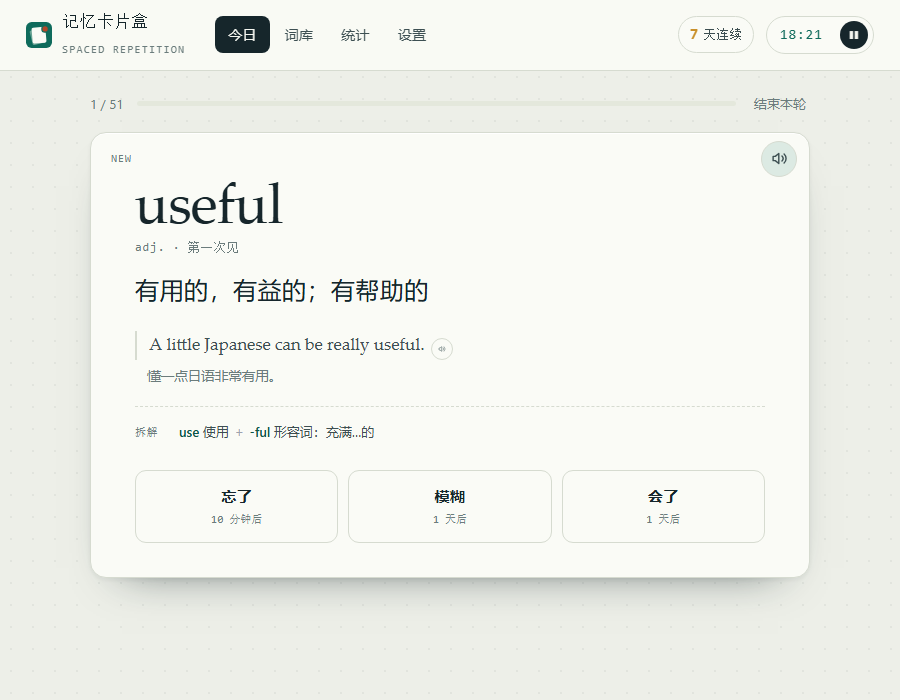
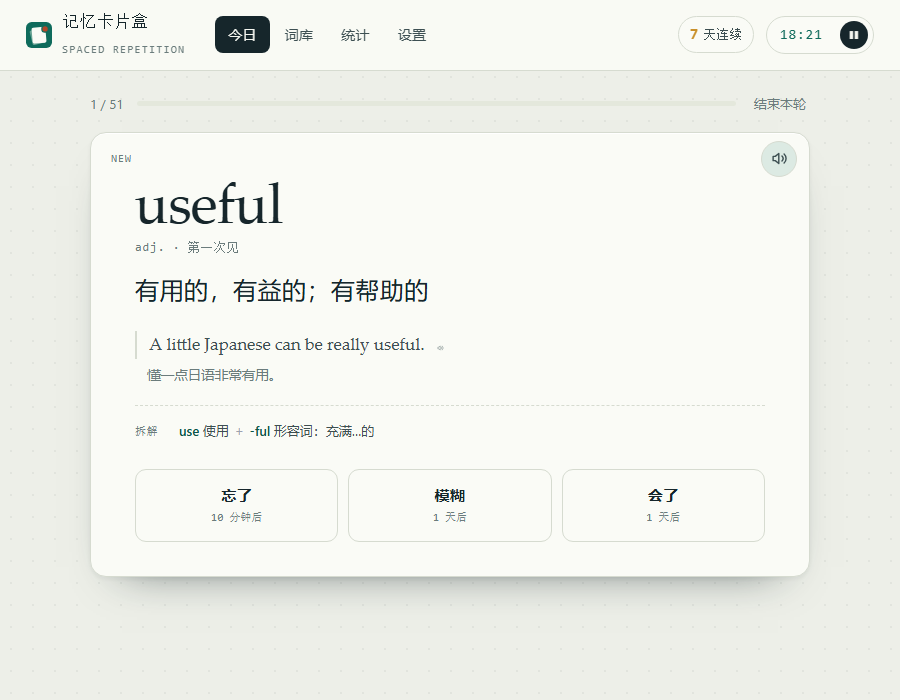
例句朗读按钮去掉焦点粗描边，改为悬停才出现底色

diff --git a/web/style.css b/web/style.css
@@ -980,28 +980,48 @@ textarea {
   display: inline-flex;
   align-items: center;
   justify-content: center;
-  width: 22px;
-  height: 22px;
-  margin-left: 7px;
-  vertical-align: -5px;
-  border: 1px solid var(--line);
+  width: 21px;
+  height: 21px;
+  margin-left: 6px;
+  vertical-align: -4px;
+  border: 1px solid transparent;
   border-radius: 50%;
   background: transparent;
   color: var(--muted);
+  opacity: 0.85;
   cursor: pointer;
-  transition: color 0.14s ease, border-color 0.14s ease, background 0.14s ease;
+  outline: none;
+  transition: color 0.14s ease, border-color 0.14s ease, background 0.14s ease,
+    opacity 0.14s ease;
 }
 .ex-say svg {
   width: 12px;
   height: 12px;
 }
 .ex-say:hover {
+  opacity: 1;
   color: var(--accent-deep);
-  border-color: var(--accent);
+  border-color: var(--line);
   background: var(--soft);
 }
 .ex-say:active {
   transform: scale(0.92);
+}
+.ex-say:focus-visible {
+  opacity: 1;
+  outline: 2px solid var(--accent);
+  outline-offset: 2px;
+}
+
+/* 主发音按钮同理：鼠标点完不留粗描边 */
+.fc-say:focus,
+.icon-btn:focus {
+  outline: none;
+}
+.fc-say:focus-visible,
+.icon-btn:focus-visible {
+  outline: 2px solid var(--accent);
+  outline-offset: 2px;
 }
 .fc-excn {
   margin-top: 4px;
